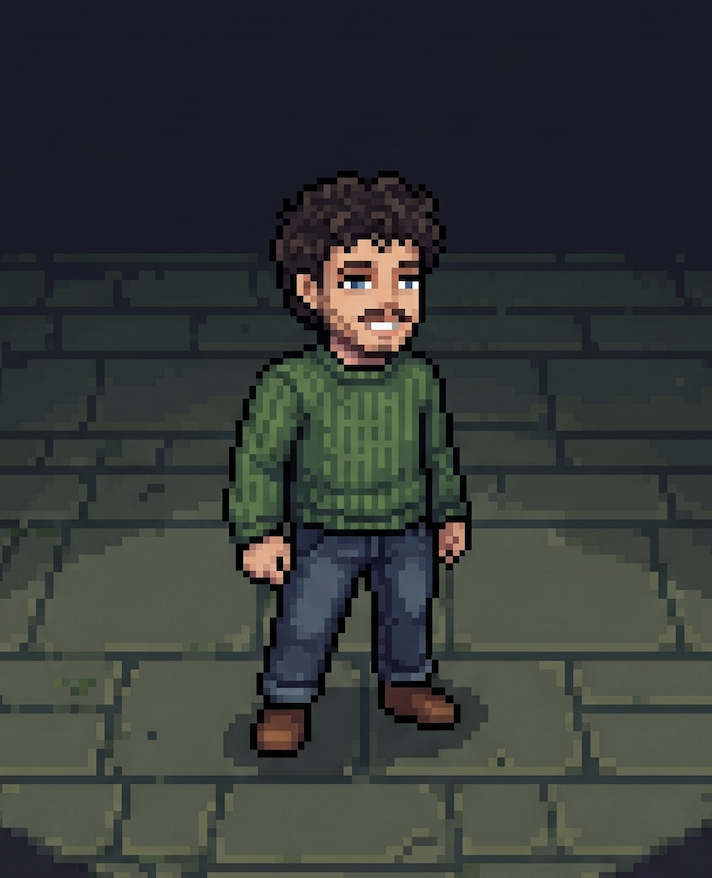
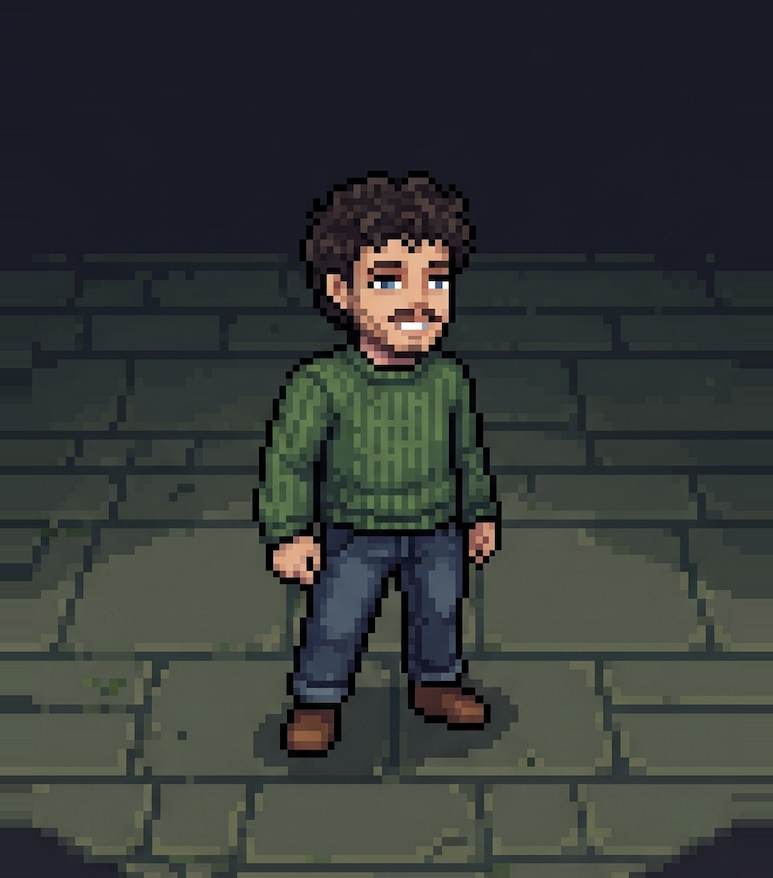
fix: normalize all hero portraits to identical 22/25 aspect ratio
Extend Marine/Alphonse/Laurent by side-padding with edge-replicated
dungeon background so all 4 portraits share Matthieu's 0.88 aspect
ratio. Container aspect-ratio updated to match, so images fill the
card with no black bars in any direction.

diff --git a/src/styles/global.css b/src/styles/global.css
@@ -270,11 +270,10 @@ span.title-logo {
 
 .hero-portrait {
   width: 100%;
-  /* Portrait PNGs are all taller than wide (~0.81 – 0.88 W/H).
-     Using 4/5 (0.8) keeps the container slightly taller than every image,
-     so `object-fit: contain` fills the full width without side bars
-     (any excess sits as a thin top/bottom band matching the black bg). */
-  aspect-ratio: 4 / 5;
+  /* All 4 portrait PNGs are normalised to ratio 22/25 (= 0.88) via
+     side-padding in the asset build. Container matches exactly so the
+     image fills the frame edge-to-edge with no letterbox in any direction. */
+  aspect-ratio: 22 / 25;
   background: #000;
   border: 1px solid var(--ink-dim);
   display: flex;
